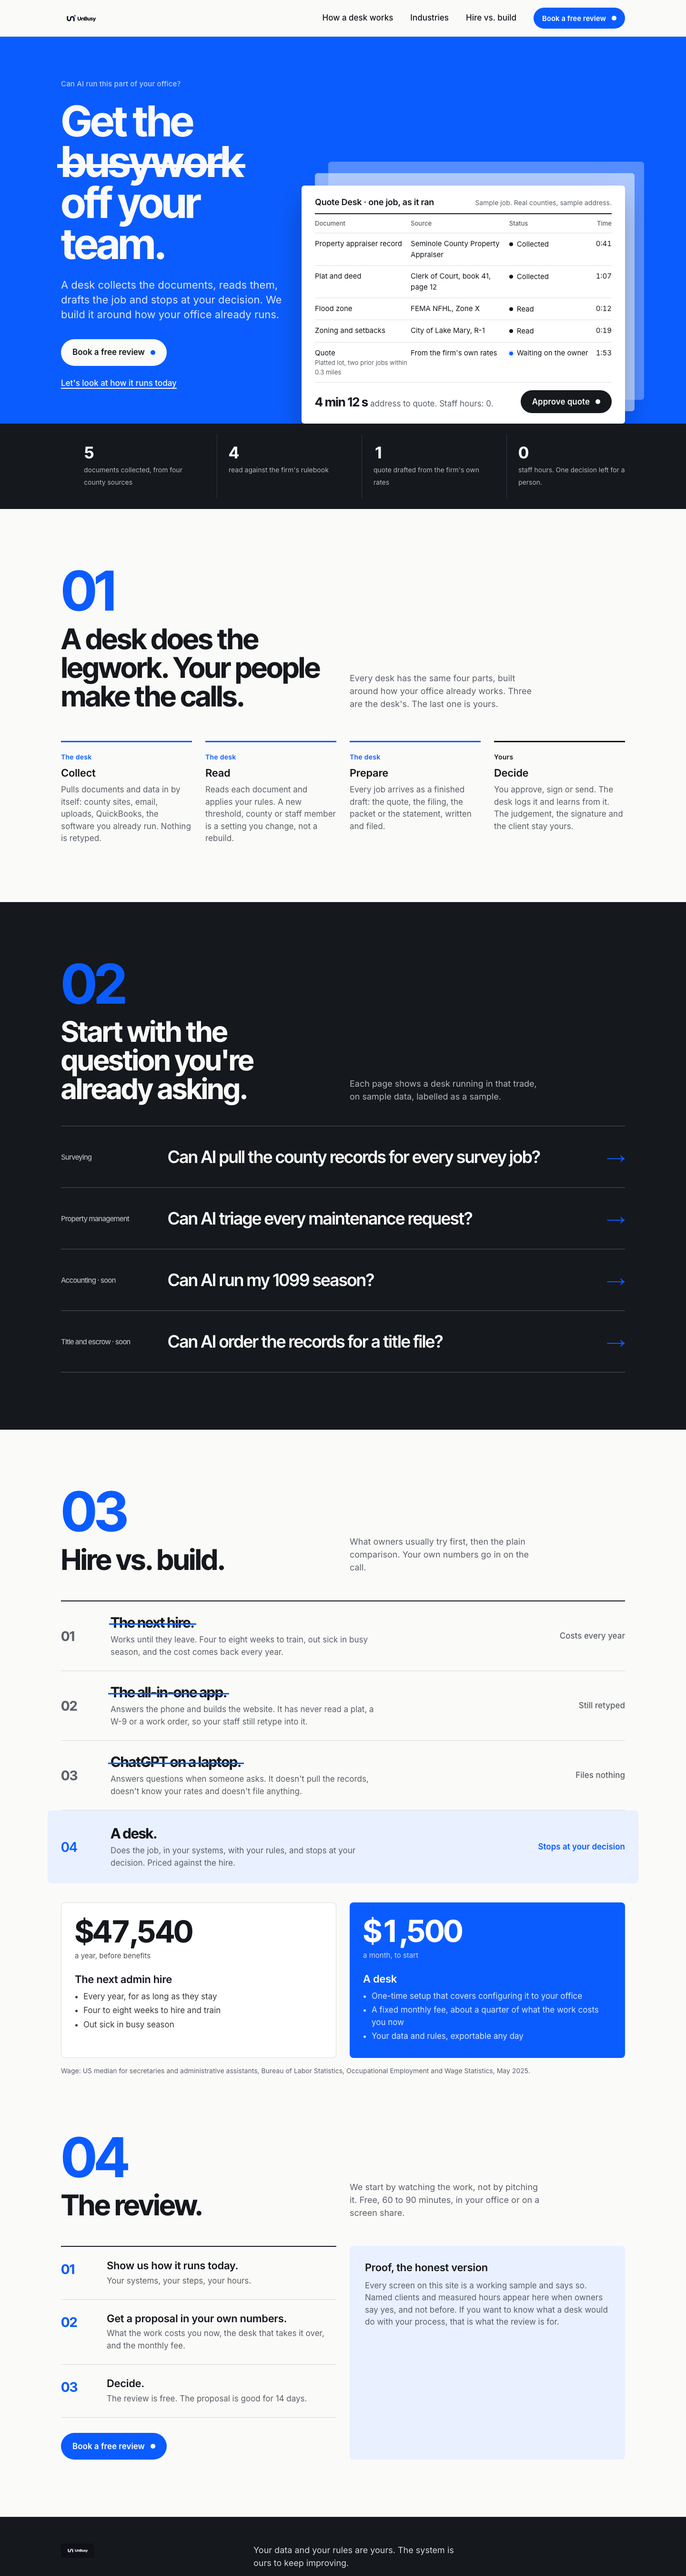
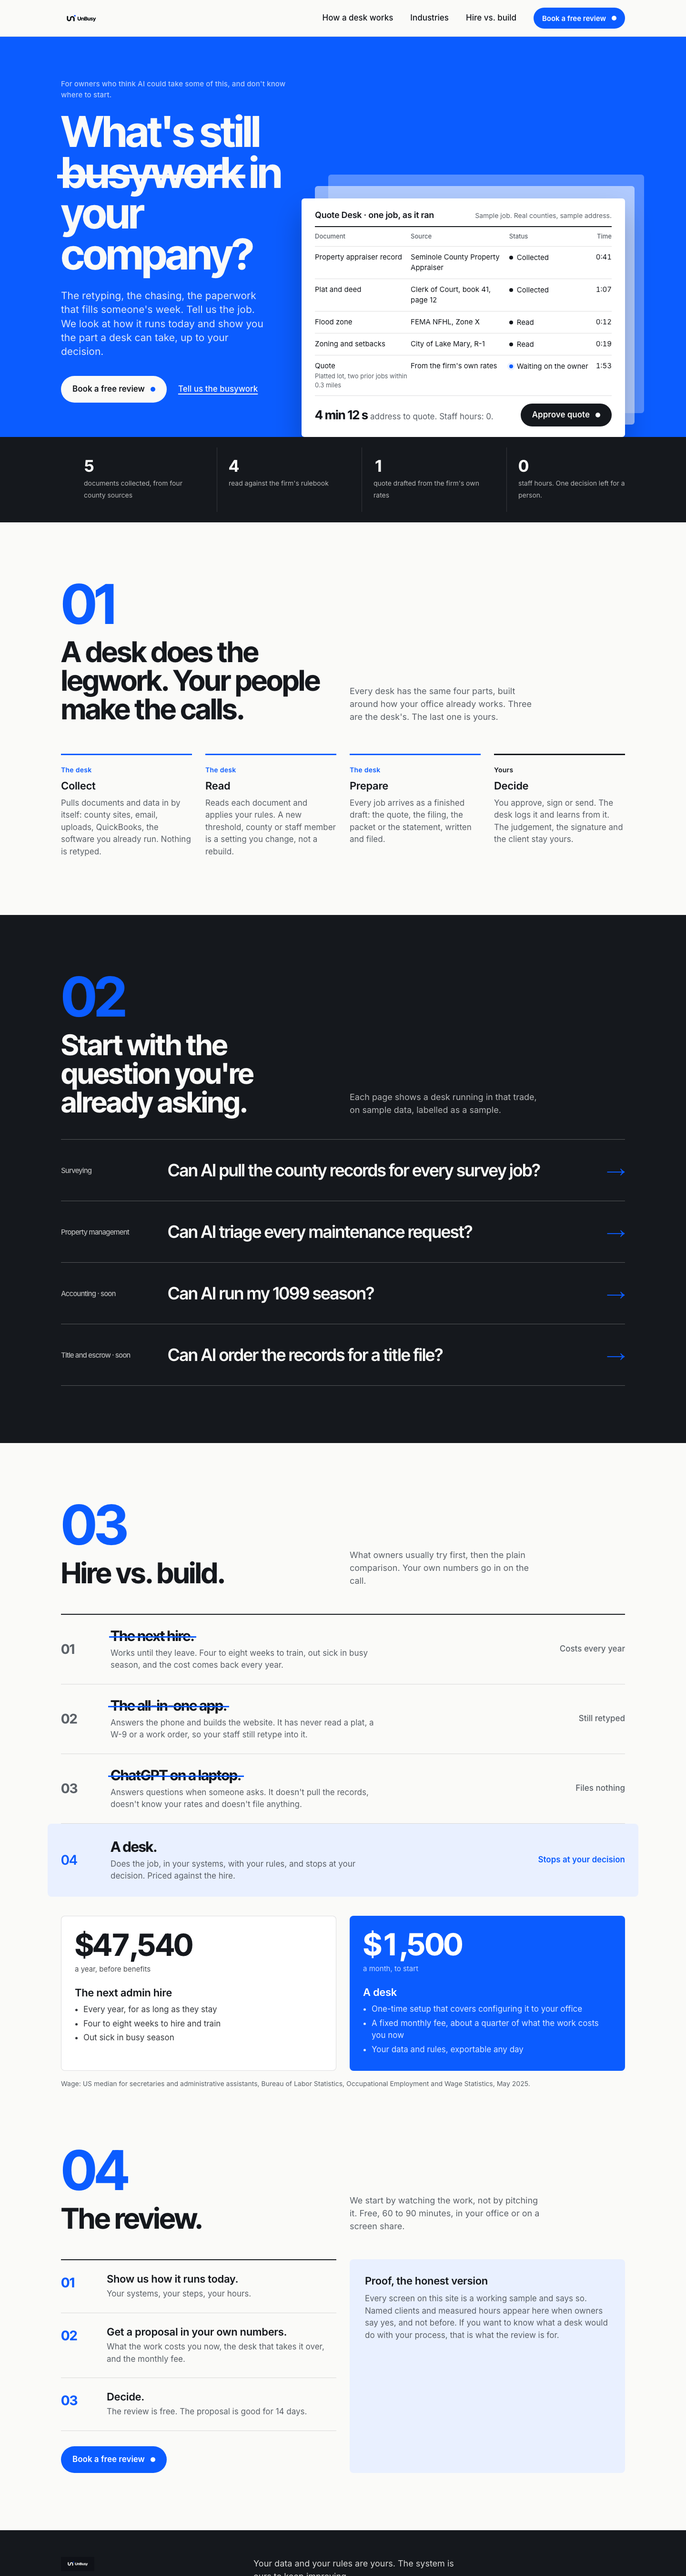
v3 hero: ask the owner what's still busywork

diff --git a/docs/brand/site-concept/v3.html b/docs/brand/site-concept/v3.html
@@ -54,7 +54,7 @@
   /* hero: blue surface, the product as a sheet of paper on it */
   .hero { background:var(--blue); color:var(--paper); padding:88px 0 0; overflow:hidden; }
   .hero .grid { align-items:end; }
-  .hero .lead { font-size:22px; line-height:1.4; max-width:34ch; margin-top:28px; color:rgba(250,250,248,.88); }
+  .hero .lead { font-size:21px; line-height:1.4; max-width:38ch; margin-top:28px; color:rgba(250,250,248,.88); }
   .hero .actions { display:flex; gap:24px; align-items:center; flex-wrap:wrap; margin:36px 0 72px; }
   .hero .q { font-weight:500; font-size:15px; letter-spacing:.01em; color:rgba(250,250,248,.72); margin-bottom:24px; }
 
@@ -171,12 +171,12 @@
 <main>
   <div class="hero on-blue"><div class="wrap grid">
     <div class="c1-5">
-      <p class="q enter">Can AI run this part of your office?</p>
-      <h1 class="enter">Get the <span class="strike">busywork</span> off your team.</h1>
-      <p class="lead enter d1">A desk collects the documents, reads them, drafts the job and stops at your decision. We build it around how your office already runs.</p>
+      <p class="q enter">For owners who think AI could take some of this, and don't know where to start.</p>
+      <h1 class="enter">What's still <span class="strike">busywork</span> in your company?</h1>
+      <p class="lead enter d1">The retyping, the chasing, the paperwork that fills someone's week. Tell us the job. We look at how it runs today and show you the part a desk can take, up to your decision.</p>
       <div class="actions enter d2">
         <a class="btn paper" href="review.html">Book a free review <span class="dot"></span></a>
-        <a class="link" href="#how">Let's look at how it runs today</a>
+        <a class="link" href="review.html">Tell us the busywork</a>
       </div>
     </div>
     <div class="c6-12 stack enter d2">
